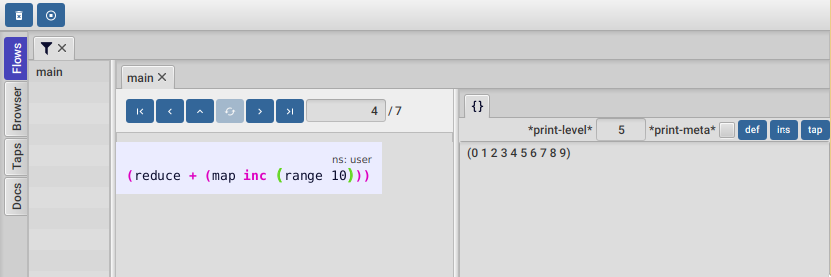
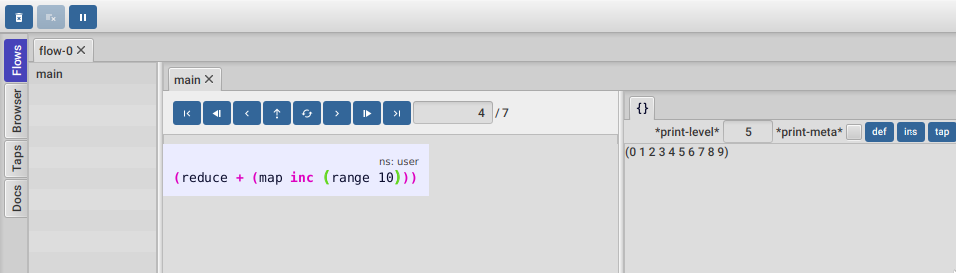
Add step-prev-over and step-next-over buttons and keybindings

Changed region(s): [[0.0, 0.0, 1.0, 1.0]]

diff --git a/docs/user_guide.html b/docs/user_guide.html
@@ -684,7 +684,6 @@ pre.rouge {
 <ul class="sectlevel4">
 <li><a href="#_instrument_any_form_with_trace">Instrument any form with #trace</a></li>
 <li><a href="#_run_code_with_rtrace">Run code with #rtrace</a></li>
-<li><a href="#_conditional_tracing_with_ctrace">Conditional tracing with #ctrace</a></li>
 <li><a href="#_instrument_namespaces">Instrument namespaces</a></li>
 <li><a href="#_what_cant_be_instrumented">What can&#8217;t be instrumented?</a></li>
 <li><a href="#_un_instrument_code">Un-instrument code</a></li>
@@ -1301,55 +1300,6 @@ Use <code>#rtrace</code> to trace and run a form, like <code>#rtrace (map inc (r
 <div class="paragraph">
 <p><code>#rtrace</code> by default will instrument and run the form with flow id 0, but you can use
 <code>#rtrace0</code>, <code>#rtrace1</code>, <code>#rtrace2</code>, <code>#rtrace3</code>, <code>#rtrace4</code>, <code>#rtrace5</code> to trace with flows ids [0..5].</p>
-</div>
-</div>
-<div class="sect4">
-<h5 id="_conditional_tracing_with_ctrace"><a class="anchor" href="#_conditional_tracing_with_ctrace"></a><a class="link" href="#_conditional_tracing_with_ctrace">Conditional tracing with #ctrace</a></h5>
-<div class="paragraph">
-<p>Some times you need to debug a function that is being constantly called many times per second, like in a game loop.</p>
-</div>
-<div class="paragraph">
-<p>Adding a <code>#trace</code> on this functions will make it generate too many traces and everything will get slow.</p>
-</div>
-<div class="paragraph">
-<p>In most of this cases you probably don&#8217;t want to trace absolutely everything, but are probably interested in executions under
-certain conditions. This is what <code>#ctrace</code> is for.</p>
-</div>
-<div class="paragraph">
-<p><code>#ctrace</code> is exactly like <code>#trace</code> but with the difference that you can control when tracing will be disable/enable
-by the use of <code>^{trace:/when &#8230;&#8203;}</code> meta.</p>
-</div>
-<div class="paragraph">
-<p>For example :</p>
-</div>
-<div class="listingblock">
-<div class="content">
-<pre class="rouge highlight"><code data-lang="clojure"><span class="o">#</span><span class="n">trace</span><span class="w">
-</span><span class="p">(</span><span class="k">defn</span><span class="w"> </span><span class="n">called-many-times</span><span class="w"> </span><span class="p">[</span><span class="n">a</span><span class="p">]</span><span class="w">
-  </span><span class="p">(</span><span class="nb">+</span><span class="w"> </span><span class="n">a</span><span class="w"> </span><span class="mi">10</span><span class="p">))</span><span class="w">
-
-</span><span class="o">#</span><span class="n">ctrace</span><span class="w">
-</span><span class="p">(</span><span class="k">defn</span><span class="w"> </span><span class="n">foo</span><span class="w"> </span><span class="p">[]</span><span class="w">
-  </span><span class="p">(</span><span class="nf">-&gt;&gt;</span><span class="w"> </span><span class="p">(</span><span class="nb">range</span><span class="w"> </span><span class="mi">10000</span><span class="p">)</span><span class="w">
-       </span><span class="p">(</span><span class="nb">map</span><span class="w"> </span><span class="p">(</span><span class="k">fn</span><span class="w"> </span><span class="n">sc</span><span class="w"> </span><span class="p">[</span><span class="n">i</span><span class="p">]</span><span class="w">
-              </span><span class="o">^</span><span class="p">{</span><span class="no">:trace/when</span><span class="w"> </span><span class="p">(</span><span class="nb">&lt;=</span><span class="w"> </span><span class="mi">2</span><span class="w"> </span><span class="n">i</span><span class="w"> </span><span class="mi">4</span><span class="p">)}</span><span class="w">
-              </span><span class="p">(</span><span class="nf">called-many-times</span><span class="w"> </span><span class="n">i</span><span class="p">)))</span><span class="w">
-       </span><span class="p">(</span><span class="nb">reduce</span><span class="w"> </span><span class="nb">+</span><span class="p">)))</span><span class="w">
-
-</span><span class="p">(</span><span class="nf">foo</span><span class="p">)</span><span class="w"> </span><span class="c1">;; =&gt; 50095000</span></code></pre>
-</div>
-</div>
-<div class="paragraph">
-<p>If you take a look at the <a href="#_call_stack_tree_tool">call stack tree</a> you will see :</p>
-</div>
-<div class="imageblock">
-<div class="content">
-<img src="user_guide_images/ctrace_example.png" alt="ctrace example">
-</div>
-</div>
-<div class="paragraph">
-<p>Notice that we only added <code>#ctrace</code> to the function that needs to control trace disabling, the rest of the
-functions can be instrumented normally.</p>
 </div>
 </div>
 <div class="sect4">
@@ -2443,10 +2393,16 @@ want to change colors, make your fonts bigger, etc. <code>:theme</code> could be
 <p><code>f</code> Select the functions tool (needs to be inside a thread)</p>
 </li>
 <li>
+<p><code>P</code> Step prev over. Go to previous step on the same frame</p>
+</li>
+<li>
 <p><code>p</code> Step prev</p>
 </li>
 <li>
 <p><code>n</code> Step next</p>
+</li>
+<li>
+<p><code>N</code> Step next over. Go to next step on the same frame</p>
 </li>
 <li>
 <p><code>^</code> Step out</p>
@@ -2625,7 +2581,7 @@ by providing <code>:verbose? true</code> to the options map.</p>
 </div>
 <div id="footer">
 <div id="footer-text">
-Last updated 2023-05-01 10:36:55 -0300
+Last updated 2023-05-08 14:13:22 -0300
 </div>
 </div>
 </body>

diff --git a/CHANGELOG.md b/CHANGELOG.md
@@ -5,6 +5,7 @@
 ### New Features
 	
 	- Add functions list refresh button
+	- Add step-prev-over and step-next-over buttons and keybindings
 	
 ### Changes
 	
